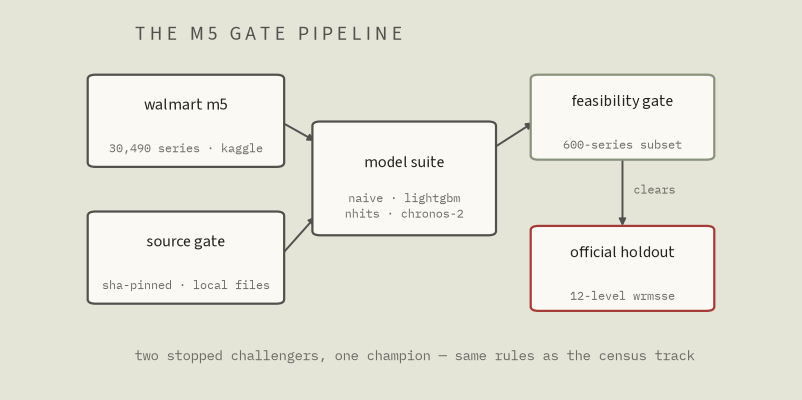
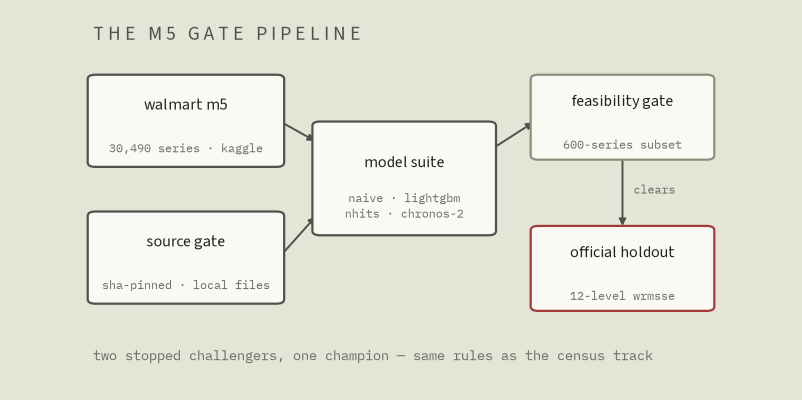
M5 card: title flush with content's left edge
Title and caption anchored at x=0.085 floated ~6% right of the flow's
left edge (boxes start at x=0.02). Both now anchor at 0.02, matching the
standardized sibling cards (title pinned upper-left, aligned to the
content column; 14pt tracked uppercase, #52514e).

Changed region(s): [[0.1247, 0.87, 0.8728, 0.9], [0.1247, 0.06, 0.4988, 0.12]]

diff --git a/scripts/build_m5_story_figures.py b/scripts/build_m5_story_figures.py
@@ -307,9 +307,9 @@ def fig_method_schematic() -> None:
     # pd-drawings, reviewinsight): a letter-spaced uppercase eyebrow title in
     # the site's mono-eyebrow voice, and a left-aligned IBM Plex Mono caption
     # line at the bottom — not a centered sans headline.
-    ax.text(0.085, 0.945, " ".join("THE M5 GATE PIPELINE"),
+    ax.text(0.02, 0.945, " ".join("THE M5 GATE PIPELINE"),
             ha="left", fontsize=14, color=ink2)
-    ax.text(0.085, 0.055, "two stopped challengers, one champion — same rules as the census track",
+    ax.text(0.02, 0.055, "two stopped challengers, one champion — same rules as the census track",
             ha="left", fontsize=10, color=muted, fontfamily="IBM Plex Mono")
     _save_card(fig, "m5_method_schematic.png", "m5-benchmark-method-schematic.png")
 
